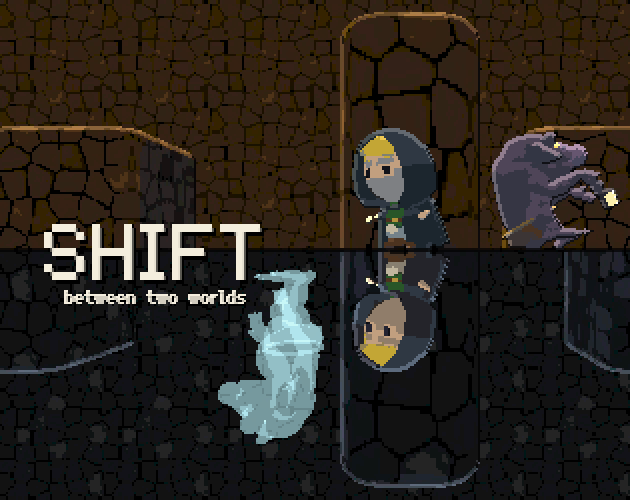
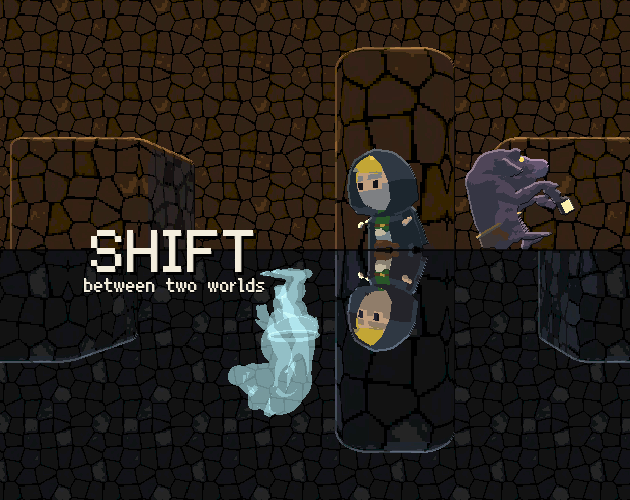
fix: draw the hero's face on the itch cover as on the wide one
- the itch layout had too few art pixels per unit, so the hero's eyes lost their shape there and in the README copy
- it is now 630x500 art pixels with the camera 500/360 as far off as the wide one, the same art pixels per unit at the hero
- docs/cover-itch.png is that art at x1 and docs/cover.png at x2; the title and subtitle use the wide sizes
- the README notes that the itch picture is one screen pixel per art pixel

diff --git a/scripts/cover.ts b/scripts/cover.ts
@@ -4,7 +4,8 @@
  *   docs/cover-itch.png  630×500   itch.io's cover image
  *   docs/cover.png       1260×1000 the same picture twice the size, at the top of the README
  *   docs/cover-wide.png  1920×1080 a 16:9 layout of the same scene
- * Every art pixel is a whole square of screen pixels (×2, ×4, ×3), so nothing is smoothed. Needs Chrome
+ * Every art pixel is a whole square of screen pixels (×1, ×2, ×3), so nothing is smoothed; the itch picture and the
+ * wide one have the same art pixels per unit at the hero, so the hero is drawn the same in all three. Needs Chrome
  * (CHROME=/path/to/chrome if it is not in a usual place). `npm run cover -- itch` shoots only the named layouts.
  */
 import { mkdirSync, writeFileSync } from 'node:fs';
@@ -16,8 +17,8 @@ const ROOT = resolve(import.meta.dirname, '..');
 const OUT = join(ROOT, 'docs');
 /** [file, layout, scale] */
 const SHOTS: [string, string, number][] = [
-  ['cover-itch.png', 'itch', 2],
-  ['cover.png', 'itch', 4],
+  ['cover-itch.png', 'itch', 1],
+  ['cover.png', 'itch', 2],
   ['cover-wide.png', 'wide', 3],
 ];
 

diff --git a/src/cover/main.ts b/src/cover/main.ts
@@ -104,12 +104,14 @@ interface Layout {
 }
 
 const LAYOUTS: Record<string, Layout> = {
+  // the same density as wide (art pixels per unit at the hero), so the hero's face, eyes and all, is drawn the same:
+  // the frame is 500/360 as tall, so the camera stands 500/360 as far off
   itch: {
-    w: 315, h: 250, seam: 125, hero: [205, 125],
-    top: { dim: 0, eye: 0, dist: 2.8, frame: [460, 250] },
-    bottom: { dim: 1, eye: 0, dist: 2.8, frame: [460, 250] },
-    title: { size: 40, x: 78, y: 140 },
-    sub: { size: 10, x: 78, y: 152 },
+    w: 630, h: 500, seam: 250, hero: [395, 250],
+    top: { dim: 0, eye: 0, dist: (2.4 * 500) / 360, frame: [800, 500] },
+    bottom: { dim: 1, eye: 0, dist: (2.4 * 500) / 360, frame: [800, 500] },
+    title: { size: 60, x: 175, y: 272 },
+    sub: { size: 20, x: 175, y: 292 },
   },
   wide: {
     w: 640, h: 360, seam: 180, hero: [400, 180],
